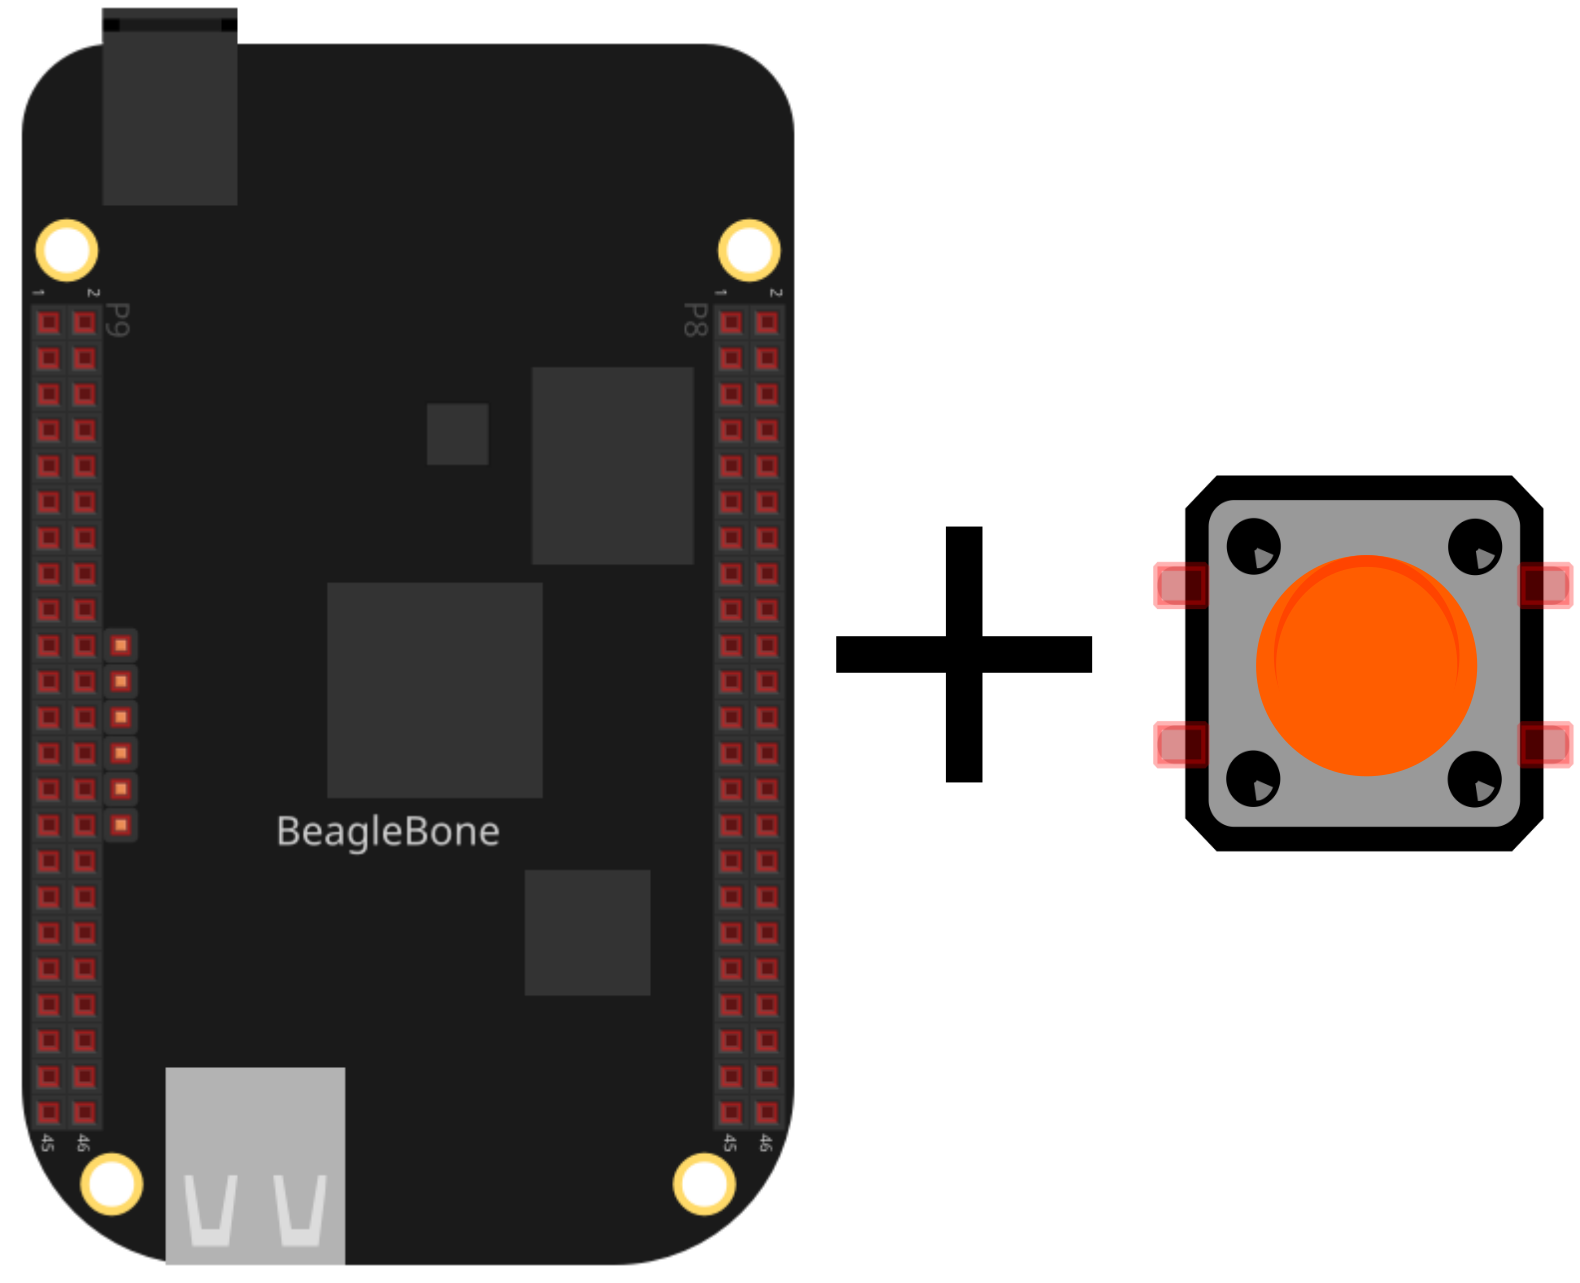
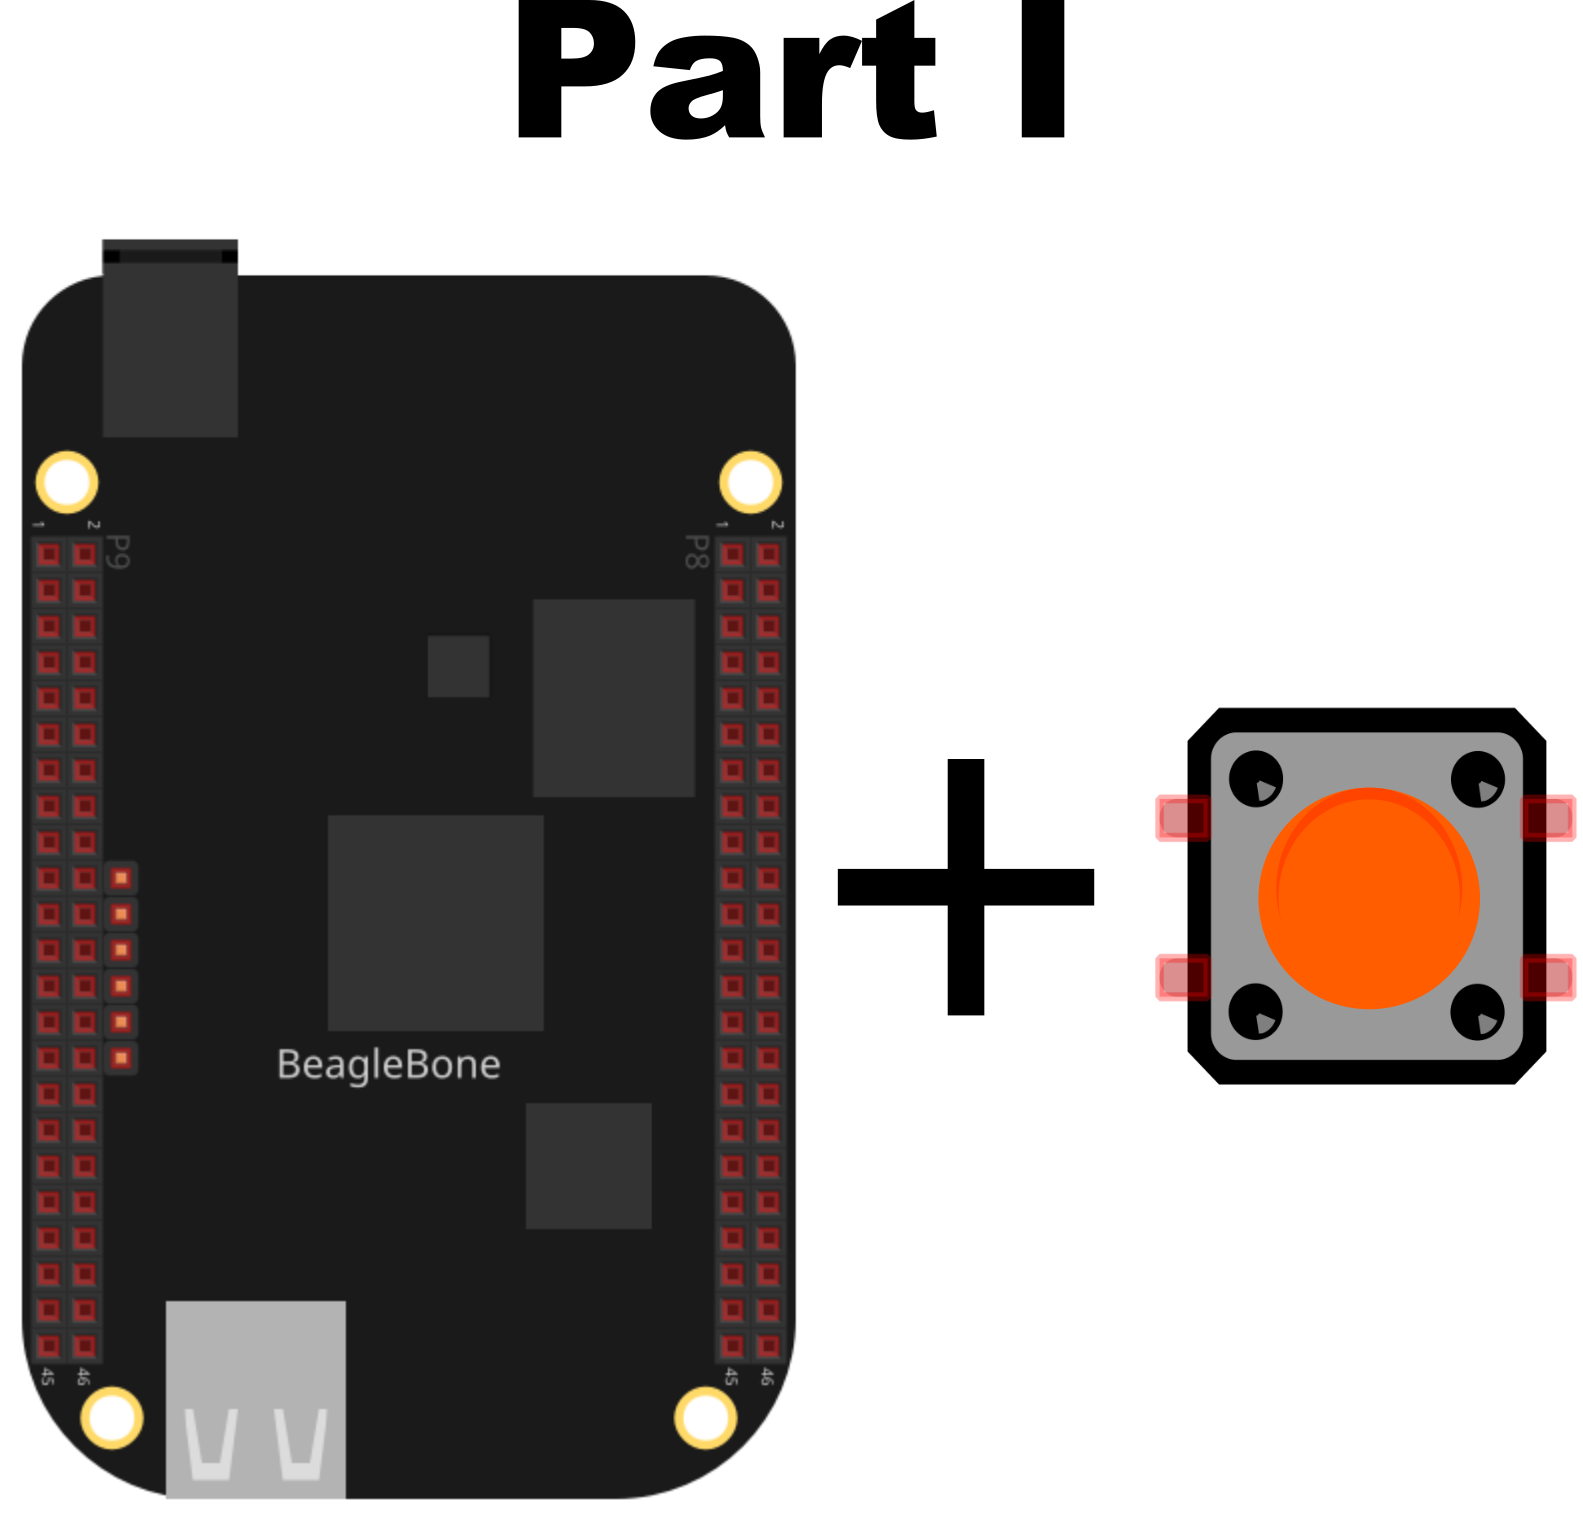
Updates

diff --git a/_posts/2021-01-05-Post15-BeagleBone_ReadAButton-Part-I.html b/_posts/2021-01-05-Post15-BeagleBone_ReadAButton-Part-I.html
@@ -1,0 +1,283 @@
+---
+layout: post
+title: "Reading a button with the BeagleBone using its own C++ class Part I"
+date:   2021-01-05 08:00:00 -0600
+categories: BeagleBone
+---
+
+
+<style>
+/* Three image containers (use 25% for four, and 50% for two, etc) */
+.column {
+  float: left;
+  width: 46%;
+  padding: 2%;
+}
+
+/* Clear floats after image containers */
+.row::after {
+  content: "";
+  clear: both;
+  display: table;
+}
+
+img {
+  border-radius: 5%;
+}
+
+video {
+  border-radius: 0%;
+}
+
+h1 {
+  font-weight: bolder;
+  text-align: left;
+  font-size: 35px;
+}
+
+h2 {
+  font-weight: bold;
+  text-align: left;
+  font-size: 25px;
+}
+
+h3 {
+  font-weight: bold;
+  text-align: left;
+  font-size: 20px;
+}
+
+p {
+  text-align: justify;
+}
+
+figure {
+  text-align: justify;
+}
+
+code {
+  font-family:'Courier New';
+  font-size: 80%;
+  line-height: 0%;
+}
+
+.label {
+  color: black;
+}
+
+.coding {
+  font-family:'Courier New', Courier, monospace
+}
+
+.codinglist {
+  font-family:'Courier New', Courier, monospace;
+  font-weight: bold;
+  color:firebrick;
+}
+</style>
+
+<figure style="text-align: center; width:70%; 
+              margin-left: auto; 
+              margin-right: auto;">
+    <img src="/assets/Post15/Cover.png"
+    alt="Cover.png" width="100%"/>
+  <figcaption>
+  </figcaption>
+</figure>
+
+<h1>Introduction</h1>
+
+<p>
+  In this post, I will show you how to read a button with the BeagleBone Black.  
+  I have written a  
+  <a href="{% post_url 2020-12-24-Post12-BeagleBone_ButtonLed %}"> previous post</a> 
+  that shows the same behavior. The difference with this post is that here, I have
+  written a C++ class that contains specific methods to work with buttons. This class
+  is part of the C++ library to access and control the general purpose digital pins 
+  (GPIO) pins of the BeagleBone that I started to work in and described in the post 
+  <a href="{% post_url 2020-12-22-Post10-BeagleBone_CPP %}"> Beaglebone and C++</a>.
+</p>
+
+<h1>Circuit and components</h1>
+
+<p>
+  The circuit can be seen in Figure 1. Please keep in mind that the BeagleBone
+  works at <span style="color: red;">3.3V</span> and not 5V like microcontrollers 
+  as Arduino. It is so muy important to avoid damage to the board, especially
+  when you are working with buttons or digital inputs in general. 
+</p>
+
+The components are:
+<ul>
+  <li>1 Resistor of 10KΩ</li>
+  <li>1 Push button of 12mm</li>
+  <li>Jumpers male-male to make the connections</li>
+</ul>
+
+
+<figure style="text-align: center; width:70%; 
+              margin-left: auto; 
+              margin-right: auto;">
+    <img src="/assets/Post15/Circuit_bb.jpg"
+    alt="Circuit_bb.jpg" width="100%"/>
+  <figcaption>
+    Figure 1: Circuit to read the input from a button.
+  </figcaption>
+</figure>
+
+<h1>Coding</h1>
+
+<p>
+  I added the corresponding methods to read a button to the class called <b>BUTTON</b> 
+  who is derived from GPIO class mentioned earlier in the introduction. The methods are:
+  <ul>
+    <li>Public methods: </li>
+    <ul>
+      <li><span class="label codinglist">ReadButton()</span></li>
+    </ul>
+  </ul>  
+</p>
+<p>  
+  The <span class="label coding">ReadButton()</span> method checks that the GPIO has been set up as INPUT
+  and returns the value of the pin that is attached to the button. This is done through a call to the 
+  <span class="label coding">DigitalRead()</span> method of the GPIO class.
+</p>
+
+{% highlight cpp%}
+int BUTTON::ReadButton()
+{
+  if (this->mode != INPUT)
+  {
+    perror("'ReadButton' method only works on INPUT mode");
+    return -1;
+  }
+  return this->DigitalRead();
+}
+{% endhighlight %}
+
+<p>
+  The button can be declared as a <span class="label coding">BUTTON</span> object
+  specifying the pin attached to it:
+</p>
+
+{% highlight cpp%}
+BUTTON redButtonPin(P8_08);
+{% endhighlight %}
+
+<p>
+  In the main program a while loop can wait for the press of the button:
+</p>
+
+{% highlight cpp%}
+while (redButtonPin.ReadButton() == 0)
+{
+  if (redButtonPin.ReadButton() == 1)
+  {
+    message = "The red button was pressed!!!";
+    cout << RainbowText(message, "Red") << endl;
+  }
+}
+{% endhighlight %}
+
+<h2 style="font-size: 25px;">Complete code</h2>
+<p>
+  The code is shown in the next ålistings:
+</p>
+
+<h3 style="font-size: 20px;">BUTTON.h</h3>
+{% highlight cpp%}
+#ifndef BUTTON_H
+#define BUTTON_H
+
+#include "GPIO.h"
+
+class BUTTON : public GPIO
+{
+  public:
+    // Overload constructor
+    BUTTON(int);
+
+    // Interface method to get the GPIO pin state
+    virtual int ReadButton();
+
+    ~BUTTON();
+};
+
+#endif // BUTTON_H
+{% endhighlight %}
+
+<h3 style="font-size: 20px;">BUTTON.cpp</h3>
+{% highlight cpp%}
+#include <iostream>
+
+#include "BUTTON.h"
+#include "RAINBOWCOLORS.h"
+
+// Overload constructor
+BUTTON::BUTTON(int newId) : GPIO(newId, INPUT) {}
+
+/*
+  Public method for reading the input from a button
+  @return int:   The button state HIGH / LOW
+                -1 Error in the pin's mode
+*/
+int BUTTON::ReadButton()
+{
+  if (this->mode != INPUT)
+  {
+    perror("'ReadButton' method only works on INPUT mode");
+    return -1;
+  }
+  return this->DigitalRead();
+}
+
+// Destructor
+BUTTON::~BUTTON()
+{}
+{% endhighlight %}
+
+<h3 style="font-size: 20px;">Listing3.1.cpp</h3>
+{% highlight cpp%}
+#include <iostream>
+#include "../../Sources/GPIO.h"
+#include "../../Sources/BUTTON.h"
+
+using namespace std;
+
+int main()
+{
+  string message = "Main program starting here...";
+  cout << RainbowText(message,"Blue", "White", "Bold") << endl;
+  
+  BUTTON redButtonPin(P8_08);
+  message = "Please, press the red button!";
+  cout << endl << RainbowText(message, "Red") << endl;
+
+  while (redButtonPin.ReadButton() == 0)
+  {
+    if (redButtonPin.ReadButton() == 1)
+    {
+      message = "The red button was pressed!!!";
+      cout << RainbowText(message, "Red") << endl;
+    }
+  }
+  
+  message = "Main program finishes here...";
+  cout << RainbowText(message,"Blue", "White","Bold") << endl << endl;
+  return 0;
+}
+{% endhighlight %}
+
+<h2 style="font-size: 25px;">Execution of the program:</h2>
+<figure style="text-align: center; width:100%; 
+              margin-left: auto; 
+              margin-right: auto;">
+  <video width="100%" controls poster="/assets/Post15/VideoCover.png">
+    <source src="/assets/Post15/Video.mp4" type="video/mp4">
+  </video>
+  <figcaption>
+    Video: Execution of the program.
+  </figcaption>
+</figure>
+
+Se you in the next post.

diff --git a/_posts/2021-01-05-Post16-BeagleBone_ReadAButton-Part-II.html b/_posts/2021-01-05-Post16-BeagleBone_ReadAButton-Part-II.html
@@ -1,7 +1,7 @@
 ---
 layout: post
-title: "Reading a button with the BeagleBone using its own C++ class"
-date:   2021-01-05 08:00:00 -0600
+title: "Reading a button with the BeagleBone using its own C++ class Part II"
+date:   2021-01-06 08:00:00 -0600
 categories: BeagleBone
 ---
 
